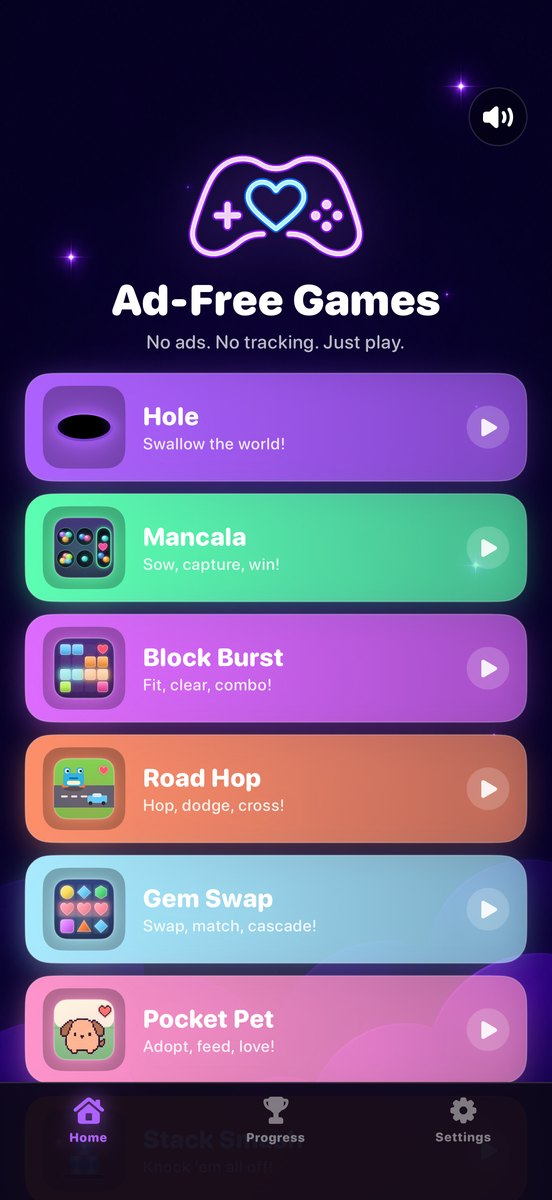
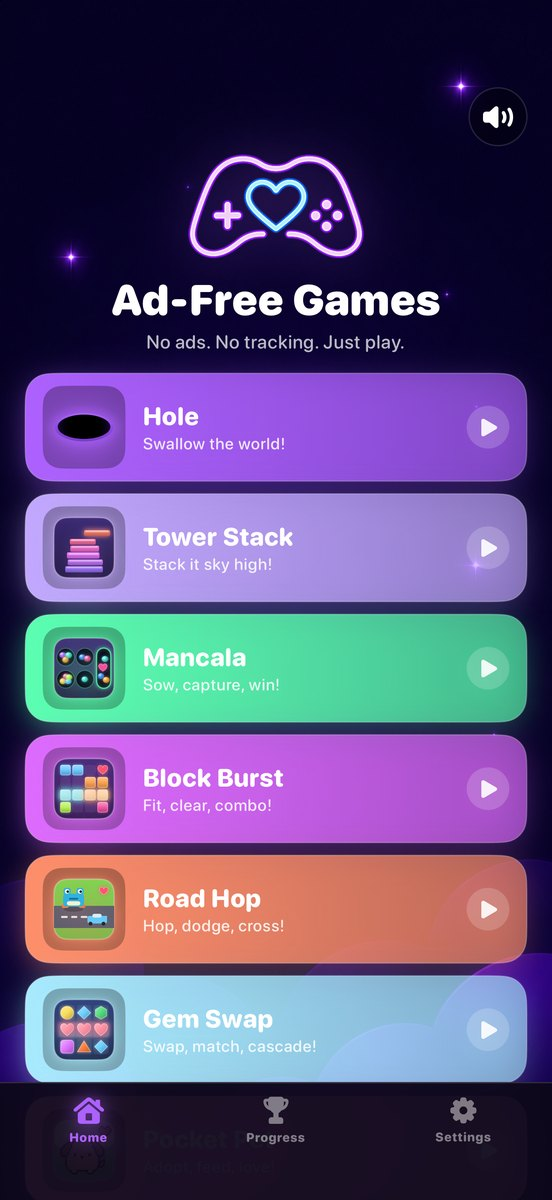
Add Tower Stack card, fifteen-game count, new menu shot

diff --git a/index.html b/index.html
@@ -3,17 +3,17 @@
 <head>
 <meta charset="utf-8">
 <meta name="viewport" content="width=device-width, initial-scale=1">
-<title>Ad-Free Games — Fourteen kids' games. Zero ads. Ever.</title>
-<meta name="description" content="Ad-Free Games is fourteen kid-friendly games in one iPhone and iPad app, with more on the way. No ads, no tracking, no accounts, works offline. One optional purchase unlocks every game, now and forever.">
+<title>Ad-Free Games — Fifteen kids' games. Zero ads. Ever.</title>
+<meta name="description" content="Ad-Free Games is fifteen kid-friendly games in one iPhone and iPad app, with more on the way. No ads, no tracking, no accounts, works offline. One optional purchase unlocks every game, now and forever.">
 <meta name="theme-color" content="#1d1139">
-<meta property="og:title" content="Ad-Free Games — Fourteen kids' games. Zero ads. Ever.">
+<meta property="og:title" content="Ad-Free Games — Fifteen kids' games. Zero ads. Ever.">
 <meta property="og:description" content="No ads, no tracking, no accounts, works offline. Made by a parent.">
 <meta property="og:image" content="https://adfreegames.app/assets/icon-512.png">
 <meta property="og:url" content="https://adfreegames.app/">
 <meta property="og:type" content="website">
 <link rel="icon" href="assets/favicon.png" type="image/png">
 <link rel="apple-touch-icon" href="assets/apple-touch-icon.png">
-<link rel="stylesheet" href="styles.css?v=8">
+<link rel="stylesheet" href="styles.css?v=9">
 </head>
 <body>
 <div class="glow"></div>
@@ -32,7 +32,7 @@
 <header class="hero">
   <div>
     <div class="eyebrow"><span class="heart">&#9829;</span> Made by a parent, for kids</div>
-    <h1>Fourteen games.<br><span>Zero ads.</span><br>Ever.</h1>
+    <h1>Fifteen games.<br><span>Zero ads.</span><br>Ever.</h1>
     <p>One app full of calm, fun games for kids. No pop-ups, no "watch a video to continue", no tracking, no accounts. Works fully offline on iPhone and iPad.</p>
     <div class="cta-row">
       <a class="btn" href="https://apps.apple.com/us/app/ad-free-games/id6783953439" rel="noopener">Download on the App Store</a>
@@ -41,7 +41,7 @@
     <p class="fine">Free to download. Hole is free to play. One optional Arcade Pack purchase unlocks the rest, shared with your whole family. Every new game we release is added to the Arcade Pack at no extra cost, so buy once and get all games forever. No subscriptions, no coins.</p>
   </div>
   <div class="phones">
-    <img class="back" src="assets/shots/10_menu.jpg?v=5" alt="The Ad-Free Games main menu with fourteen game tiles" loading="eager">
+    <img class="back" src="assets/shots/10_menu.jpg?v=6" alt="The Ad-Free Games main menu with fifteen game tiles" loading="eager">
     <img class="front" src="assets/shots/1_hole.jpg" alt="Hole: a hole swallowing a neon city at night" loading="eager">
   </div>
 </header>
@@ -55,9 +55,10 @@
 
 <section id="games">
   <h2>Pick a tile, start playing</h2>
-  <p class="lead">Fourteen games today, more on the way. Every game shares one sound switch, one look, and one rule: nothing in the way of playing. New games join the Arcade Pack free for everyone who already owns it.</p>
+  <p class="lead">Fifteen games today, more on the way. Every game shares one sound switch, one look, and one rule: nothing in the way of playing. New games join the Arcade Pack free for everyone who already owns it.</p>
   <div class="games">
     <article class="game" style="--accent:var(--purple)"><span class="tag free">Free</span><img src="assets/shots/1_hole.jpg" alt="Hole gameplay" loading="lazy"><div class="body"><h3>Hole</h3><p>You are a hole. Swallow a living 3D city, forest or snowfield and gulp down rival holes. Four modes, including Infinite.</p></div></article>
+    <article class="game" style="--accent:var(--lilac)"><span class="tag pack">Arcade Pack</span><img src="assets/shots/tower.jpg" alt="Tower Stack gameplay" loading="lazy"><div class="body"><h3>Tower Stack <span class="new">New</span></h3><p>Tap to drop the sliding block onto the tower. Whatever hangs over the edge gets sliced off, so aim true. Land it dead centre for a Perfect, chain them to win width back, and see how high you can go. Chill mode for little ones.</p></div></article>
     <article class="game" style="--accent:var(--bubblegum)"><span class="tag pack">Arcade Pack</span><img src="assets/shots/pet.jpg" alt="Pocket Pet gameplay" loading="lazy"><div class="body"><h3>Pocket Pet <span class="new">New</span></h3><p>Adopt a pixel-art pal: a puppy, kitten, bunny, turtle, dragon or fox. Feed it, give it a bubble bath, play Bounce and Peekaboo for coins, and spend them on toys, homes and garden decor. Your pal naps while you're away and is glad to see you back.</p></div></article>
     <article class="game" style="--accent:var(--ice)"><span class="tag pack">Arcade Pack</span><img src="assets/shots/gem.jpg" alt="Gem Swap gameplay" loading="lazy"><div class="body"><h3>Gem Swap <span class="new">New</span></h3><p>A match-3 with a hundred levels. Swap gems to line up three; four makes a blaster, five a rainbow gem, an L a bomb. Score targets, colour collections and ice to melt, plus an endless Zen mode with no moves and no clock.</p></div></article>
     <article class="game" style="--accent:var(--coral)"><span class="tag pack">Arcade Pack</span><img src="assets/shots/hop.jpg?v=2" alt="Road Hop gameplay" loading="lazy"><div class="body"><h3>Road Hop <span class="new">New</span></h3><p>Tap to hop, swipe to dodge. Cross roads, railways and rivers in a bright 3D world, and spend your coins on thirteen characters, from a chick to a penguin. Chill mode for little ones, Normal for the brave.</p></div></article>
@@ -88,7 +89,7 @@
         <li><span class="check">&#10003;</span><div><b>Rated 4+.</b> Designed for little hands and little attention spans.</div></li>
       </ul>
     </div>
-    <div class="quote">"Made by a parent who was tired of their kid getting blasted with ads. Fourteen calm, fun, ad-free games, with more on the way and no second purchase, ever. That's it."<small>One Light Media LLC</small></div>
+    <div class="quote">"Made by a parent who was tired of their kid getting blasted with ads. Fifteen calm, fun, ad-free games, with more on the way and no second purchase, ever. That's it."<small>One Light Media LLC</small></div>
   </div>
 </section>
 

diff --git a/support.html b/support.html
@@ -8,7 +8,7 @@
 <meta name="theme-color" content="#1d1139">
 <link rel="icon" href="assets/favicon.png" type="image/png">
 <link rel="apple-touch-icon" href="assets/apple-touch-icon.png">
-<link rel="stylesheet" href="styles.css?v=8">
+<link rel="stylesheet" href="styles.css?v=9">
 </head>
 <body>
 <div class="glow"></div>
@@ -53,7 +53,7 @@
 <details><summary>I found a bug or the App crashed.</summary><p>Sorry about that. The quickest way is the <strong>Send Feedback</strong> button on the App's Settings tab, which fills in your device and version for you. Or email us with your device model, iOS version, and which game you were playing.</p></details>
 
 <h2>About</h2>
-<p>Ad-Free Games is made by One Light Media LLC, a parent-run studio that got tired of kids' games being wall-to-wall ads. Fourteen calm, fun, ad-free games today, with more on the way. Every new game is added to the Arcade Pack free for everyone who already owns it. That's it.</p>
+<p>Ad-Free Games is made by One Light Media LLC, a parent-run studio that got tired of kids' games being wall-to-wall ads. Fifteen calm, fun, ad-free games today, with more on the way. Every new game is added to the Arcade Pack free for everyone who already owns it. That's it.</p>
 </main>
 <footer>
   <div>&copy; 2026 One Light Media LLC. Made with <span class="heart">&#9829;</span> for kids.</div>

diff --git a/styles.css b/styles.css
@@ -1,7 +1,7 @@
 :root{
   --purple:#ad61ff;--blue:#388fff;--green:#47d973;--pink:#f24f9e;--amber:#ffa633;
   --teal:#40e6d9;--sun:#ffdb47;--lime:#b3f54d;--flame:#ff7833;--heart:#ff5470;--mint:#5cffb3;
-  --orchid:#de6bff;--coral:#ff8f6b;--ice:#a8ebff;--bubblegum:#ff94cc;
+  --orchid:#de6bff;--coral:#ff8f6b;--ice:#a8ebff;--bubblegum:#ff94cc;--lilac:#c2a8ff;
   --bg-top:#1d1139;--bg-bottom:#090516;--panel:rgba(255,255,255,.08);--stroke:rgba(255,255,255,.14);
   --text:#fff;--text-2:rgba(255,255,255,.72);--text-3:rgba(255,255,255,.45);
   --font:ui-rounded,"SF Pro Rounded","Nunito","Varela Round",system-ui,-apple-system,"Segoe UI",Roboto,sans-serif;
